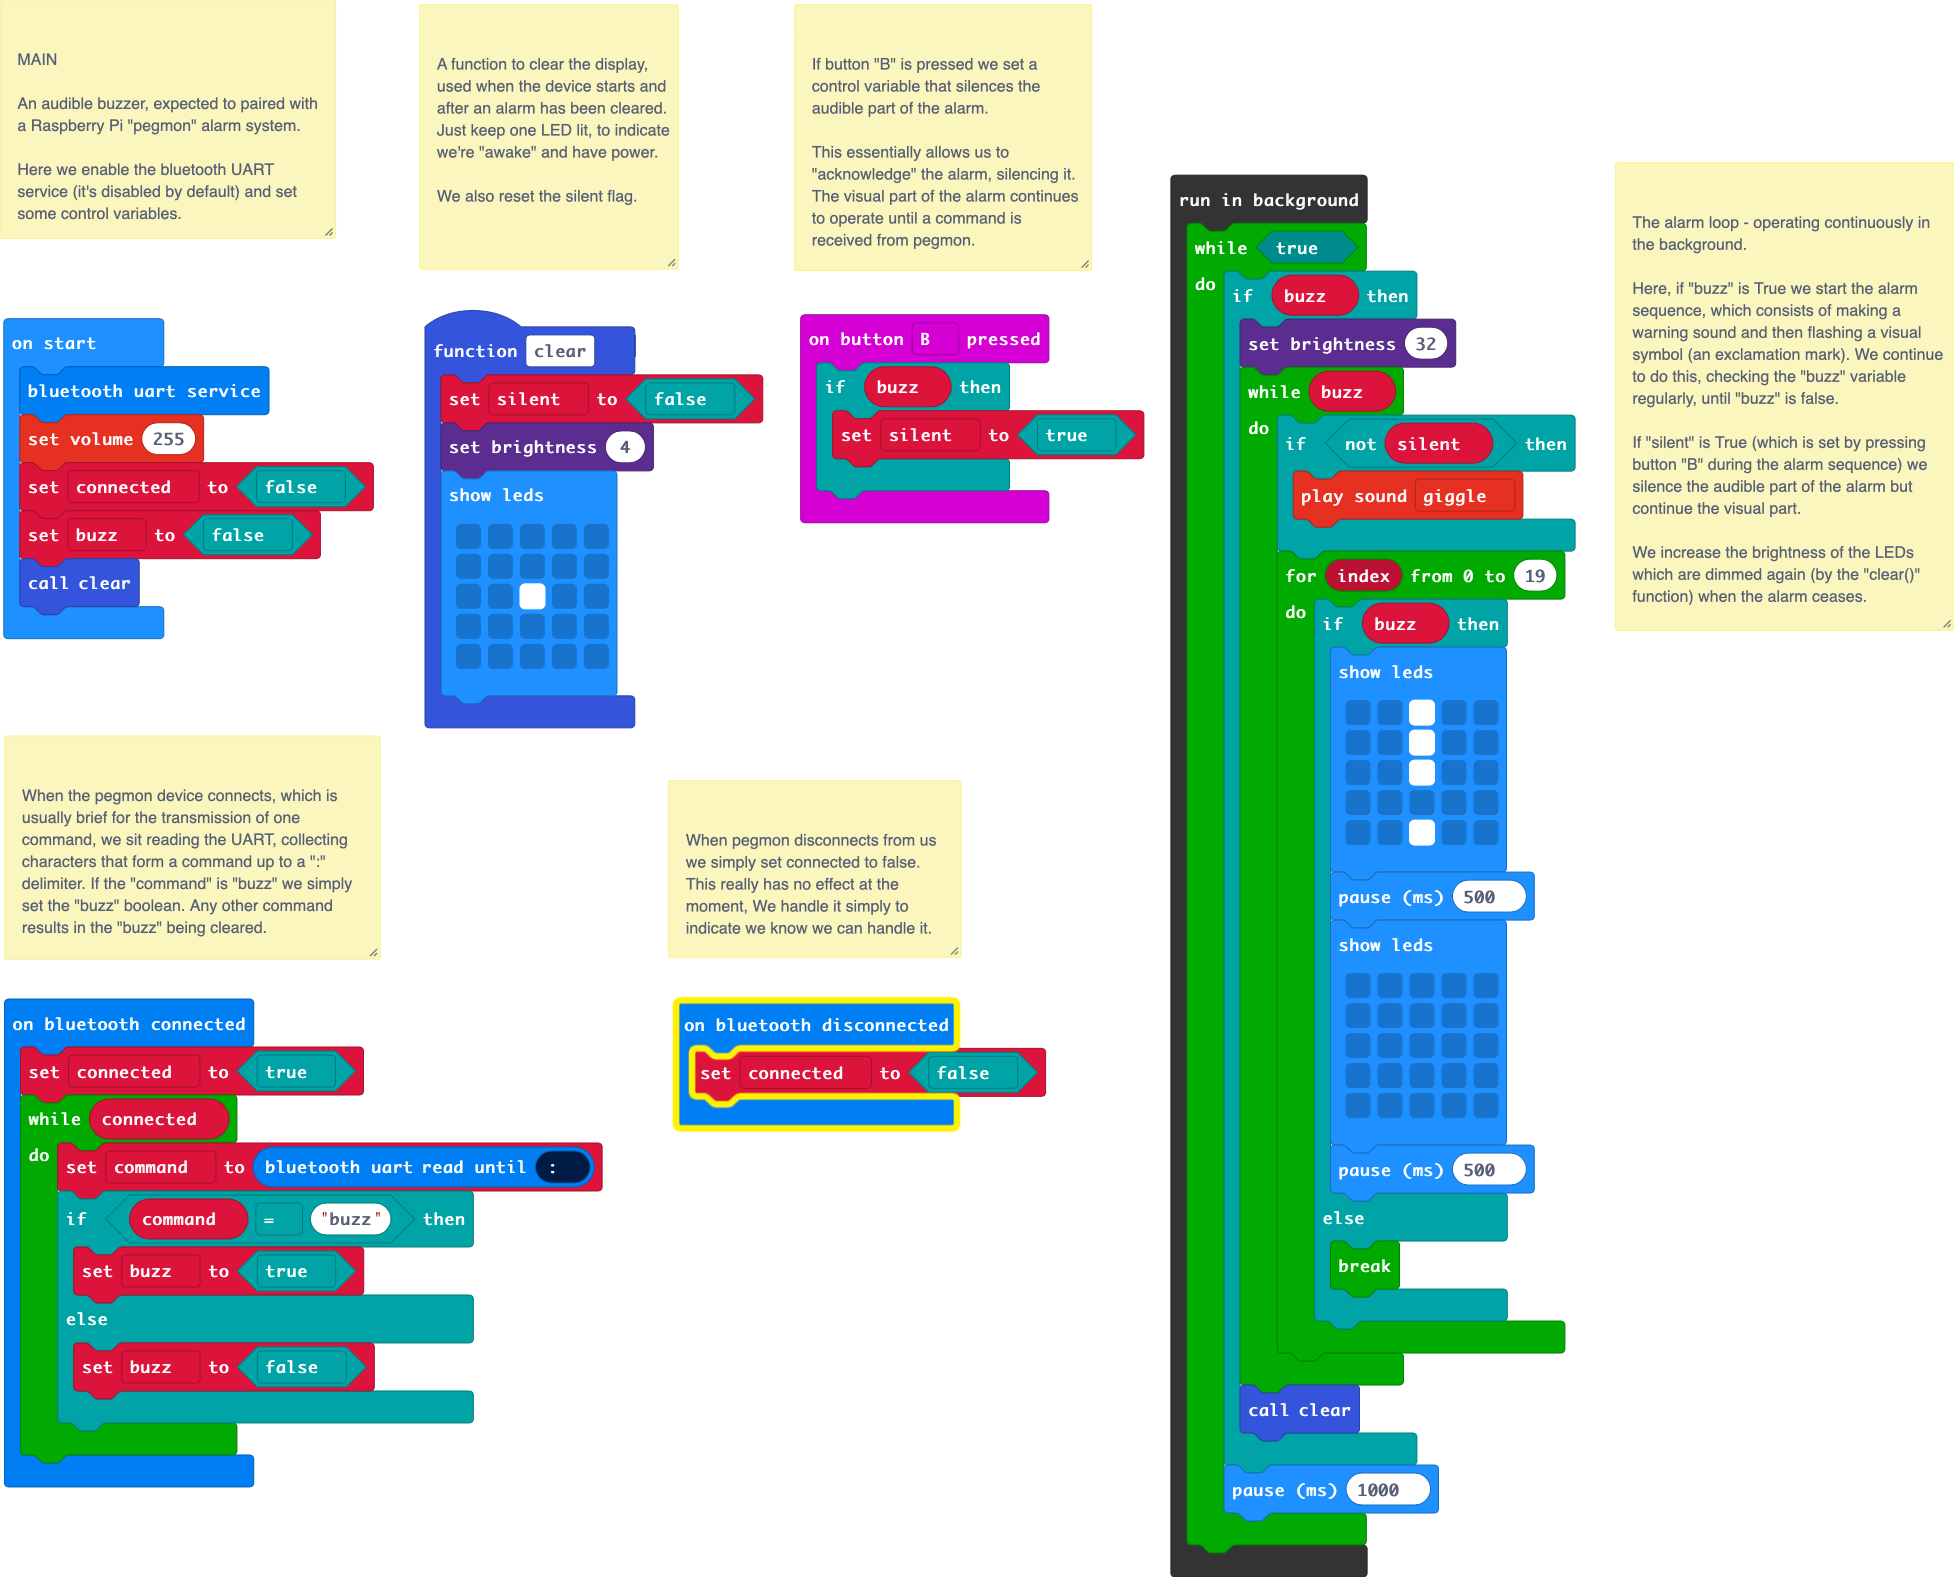
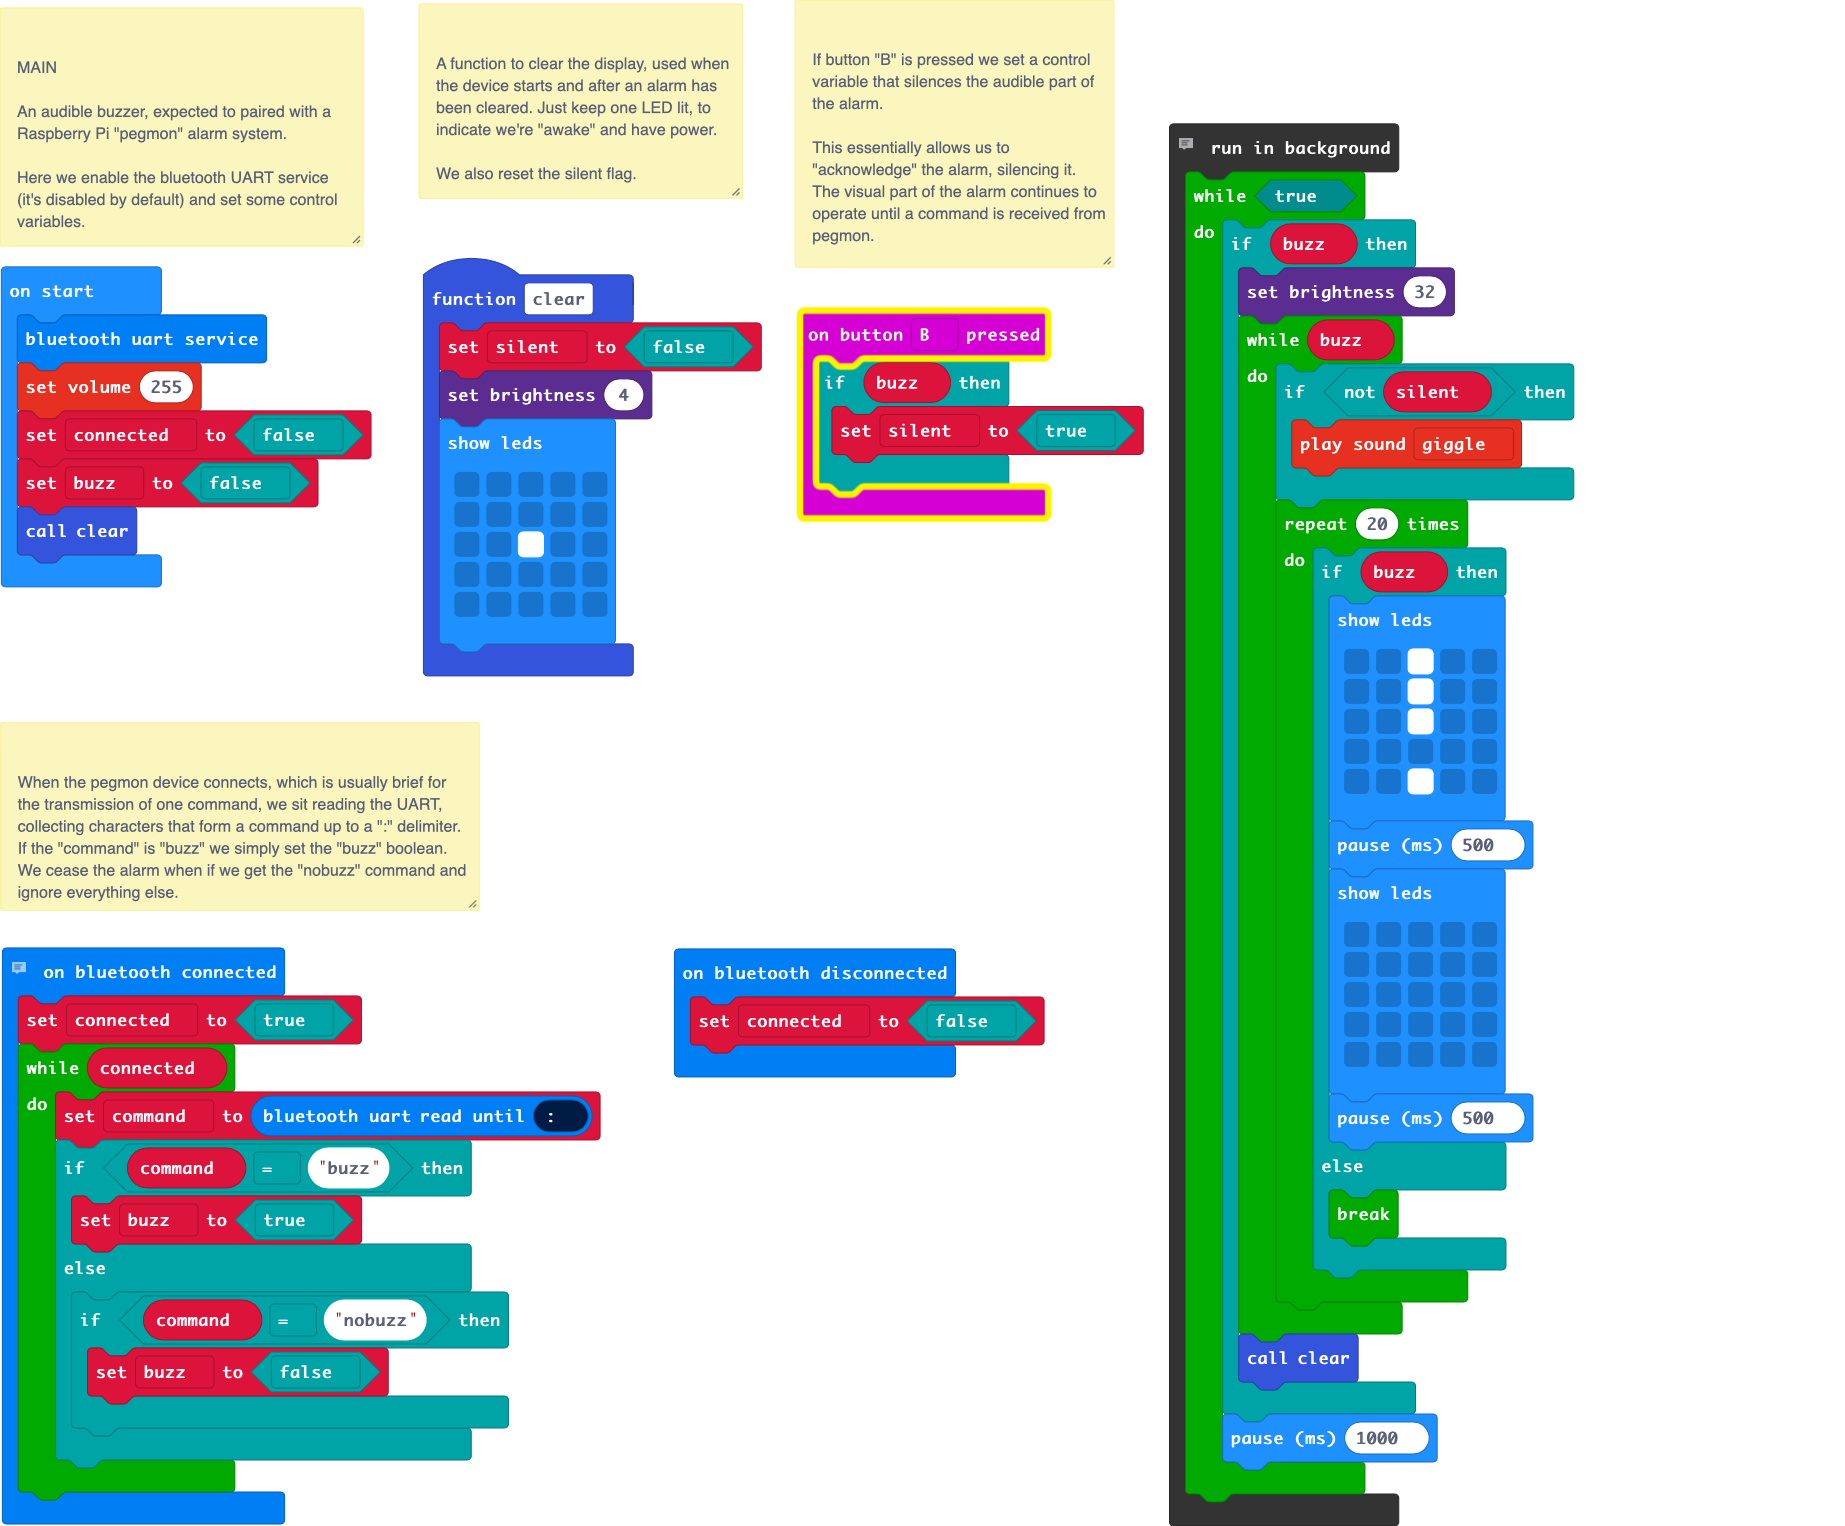
Handles "nobuzz" and ignores other commands

diff --git a/main.ts b/main.ts
@@ -11,16 +11,9 @@
  * We also reset the silent flag.
  */
 /**
- * If button "B" is pressed we set a control variable that silences the audible part of the alarm.
- * 
- * This essentially allows us to "acknowledge" the alarm, silencing it. The visual part of the alarm continues to operate until a command is received from pegmon.
+ * When the pegmon device connects, which is usually brief for the transmission of one command, we sit reading the UART, collecting characters that form a command up to a ":" delimiter. If the "command" is "buzz" we simply set the "buzz" boolean. We cease the alarm when if we get the "nobuzz" command and ignore everything else.
  */
-/**
- * When the pegmon device connects, which is usually brief for the transmission of one command, we sit reading the UART, collecting characters that form a command up to a ":" delimiter. If the "command" is "buzz" we simply set the "buzz" boolean. Any other command results in the "buzz" being cleared.
- */
-/**
- * When pegmon disconnects from us we simply set connected to false. This really has no effect at the moment, We handle it simply to indicate we know we can handle it.
- */
+// When pegmon disconnects from us we simply set connected to false. This really has no effect at the moment, We handle it simply to indicate we know we can handle it.
 bluetooth.onBluetoothConnected(function () {
     connected = true
     while (connected) {
@@ -28,13 +21,20 @@ bluetooth.onBluetoothConnected(function () {
         if (command == "buzz") {
             buzz = true
         } else {
-            buzz = false
+            if (command == "nobuzz") {
+                buzz = false
+            }
         }
     }
 })
 bluetooth.onBluetoothDisconnected(function () {
     connected = false
 })
+/**
+ * If button "B" is pressed we set a control variable that silences the audible part of the alarm.
+ * 
+ * This essentially allows us to "acknowledge" the alarm, silencing it. The visual part of the alarm continues to operate until a command is received from pegmon.
+ */
 function clear () {
     silent = false
     led.setBrightness(4)
@@ -60,15 +60,13 @@ music.setVolume(255)
 connected = false
 buzz = false
 clear()
-/**
- * The alarm loop - operating continuously in the background.
- * 
- * Here, if "buzz" is True we start the alarm sequence, which consists of making a warning sound and then flashing a visual symbol (an exclamation mark). We continue to do this, checking the "buzz" variable regularly, until "buzz" is false.
- * 
- * If "silent" is True (which is set by pressing button "B" during the alarm sequence) we silence the audible part of the alarm but continue the visual part.
- * 
- * We increase the brightness of the LEDs which are dimmed again (by the "clear()" function) when the alarm ceases.
- */
+// The alarm loop - operating continuously in the background.
+// 
+// Here, if "buzz" is True we start the alarm sequence, which consists of making a warning sound and then flashing a visual symbol (an exclamation mark). We continue to do this, checking the "buzz" variable regularly, until "buzz" is false.
+// 
+// If "silent" is True (which is set by pressing button "B" during the alarm sequence) we silence the audible part of the alarm but continue the visual part.
+// 
+// We increase the brightness of the LEDs which are dimmed again (by the "clear()" function) when the alarm ceases.
 control.inBackground(function () {
     while (true) {
         if (buzz) {
@@ -77,7 +75,7 @@ control.inBackground(function () {
                 if (!(silent)) {
                     soundExpression.giggle.play()
                 }
-                for (let index = 0; index <= 19; index++) {
+                for (let index = 0; index < 20; index++) {
                     if (buzz) {
                         basic.showLeds(`
                             . . # . .

diff --git a/main.py b/main.py
@@ -1,0 +1,119 @@
+"""
+
+MAIN
+
+An audible buzzer, expected to paired with a Raspberry Pi "pegmon" alarm system.
+
+Here we enable the bluetooth UART service (it's disabled by default) and set some control variables.
+
+"""
+"""
+
+A function to clear the display, used when the device starts and after an alarm has been cleared. Just keep one LED lit, to indicate we're "awake" and have power.
+
+We also reset the silent flag.
+
+"""
+"""
+
+If button "B" is pressed we set a control variable that silences the audible part of the alarm.
+
+This essentially allows us to "acknowledge" the alarm, silencing it. The visual part of the alarm continues to operate until a command is received from pegmon.
+
+"""
+"""
+
+When the pegmon device connects, which is usually brief for the transmission of one command, we sit reading the UART, collecting characters that form a command up to a ":" delimiter. If the "command" is "buzz" we simply set the "buzz" boolean. Any other command results in the "buzz" being cleared.
+
+"""
+"""
+
+When pegmon disconnects from us we simply set connected to false. This really has no effect at the moment, We handle it simply to indicate we know we can handle it.
+
+"""
+
+def on_bluetooth_connected():
+    global connected, command, buzz
+    connected = True
+    while connected:
+        command = bluetooth.uart_read_until(serial.delimiters(Delimiters.COLON))
+        if command == "buzz":
+            buzz = True
+        else:
+            buzz = False
+bluetooth.on_bluetooth_connected(on_bluetooth_connected)
+
+def on_bluetooth_disconnected():
+    global connected
+    connected = False
+bluetooth.on_bluetooth_disconnected(on_bluetooth_disconnected)
+
+def clear():
+    global silent
+    silent = False
+    led.set_brightness(4)
+    basic.show_leds("""
+        . . . . .
+                . . . . .
+                . . # . .
+                . . . . .
+                . . . . .
+    """)
+
+def on_button_pressed_b():
+    global silent
+    if buzz:
+        silent = True
+input.on_button_pressed(Button.B, on_button_pressed_b)
+
+silent = False
+command = ""
+buzz = False
+connected = False
+bluetooth.start_uart_service()
+music.set_volume(255)
+connected = False
+buzz = False
+clear()
+"""
+
+The alarm loop - operating continuously in the background.
+
+Here, if "buzz" is True we start the alarm sequence, which consists of making a warning sound and then flashing a visual symbol (an exclamation mark). We continue to do this, checking the "buzz" variable regularly, until "buzz" is false.
+
+If "silent" is True (which is set by pressing button "B" during the alarm sequence) we silence the audible part of the alarm but continue the visual part.
+
+We increase the brightness of the LEDs which are dimmed again (by the "clear()" function) when the alarm ceases.
+
+"""
+
+def on_in_background():
+    while True:
+        if buzz:
+            led.set_brightness(32)
+            while buzz:
+                if not (silent):
+                    soundExpression.giggle.play()
+                for index in range(20):
+                    if buzz:
+                        basic.show_leds("""
+                            . . # . .
+                                                        . . # . .
+                                                        . . # . .
+                                                        . . . . .
+                                                        . . # . .
+                        """)
+                        basic.pause(500)
+                        basic.show_leds("""
+                            . . . . .
+                                                        . . . . .
+                                                        . . . . .
+                                                        . . . . .
+                                                        . . . . .
+                        """)
+                        basic.pause(500)
+                    else:
+                        break
+            clear()
+        basic.pause(1000)
+control.in_background(on_in_background)
